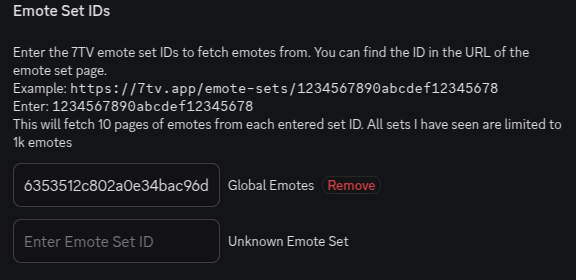
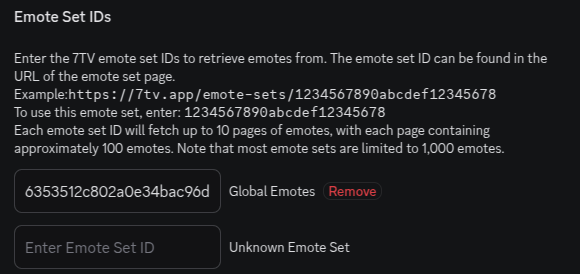
release

diff --git a/index.tsx b/index.tsx
@@ -64,29 +64,26 @@ const settings = definePluginSettings({
     useGlobalEmotes: {
         type: OptionType.BOOLEAN,
         description:
-            "Use the global 7TV emotes." +
-            " If disabled, only emotes from the manually entered emote set id will be used.",
+            "Enable the use of global 7TV emotes. If disabled, only emotes from the manually specified emote set IDs will be available.",
         default: true,
         restartNeeded: true,
     },
     showNotifications: {
         type: OptionType.BOOLEAN,
-        description: "Show notifications when fetching emotes.",
+        description: "Display notifications during the emote fetching process. Useful for debugging or monitoring plugin activity.",
         default: false,
         restartNeeded: false,
     },
     emotePages: {
         type: OptionType.NUMBER,
         description:
-            "Number of pages to fetch from the 7TV API. " +
-            "Each page contains 100 emotes, so increasing this will increase how long all emotes are loaded " +
-            "This only applies when using global emotes.",
+            "Specify the number of pages to fetch from the 7TV API. Each page contains up to 100 emotes. Increasing this value may extend the loading time. This setting is applicable only when global emotes are enabled.",
         default: 50,
         restartNeeded: true,
     },
     emoteScale: {
         type: OptionType.SELECT,
-        description: "Scale of the emote image in messages.", // I have no idea if this has any effect when the image is turned into emoji. but will use the corresponding image scale for it.
+        description: "Define the scale of emote images displayed in messages. Choose from 1x, 2x, 3x, or 4x for optimal visual quality.",
         options: [
             { label: "1x", value: "1x", default: true },
             { label: "2x", value: "2x" },
@@ -109,11 +106,12 @@ const settings = definePluginSettings({
                 </>
             );
         },
+        description: "Enter custom 7TV emote set IDs to fetch emotes from. This allows the use of specific community or personal emote sets.",
         restartNeeded: true,
     },
 });
 
-async function fetchEmoteSetNames(setID: string): Promise<string | void> {
+async function fetchEmoteSetName(setID: string): Promise<string | void> {
     try {
         const response = await fetch(SEVENTV_API_URL, {
             method: "POST",
@@ -175,7 +173,7 @@ async function fetchEmotesBySetID(setID: string) {
                 showNotification(
                     {
                         title: "Fetching 7TV Emotes...",
-                        body: `Fetched ${emotes.length} emotes from set ${await fetchEmoteSetNames(setID)
+                        body: `Fetched ${emotes.length} emotes from set ${await fetchEmoteSetName(setID)
                             .then(name => name || `Emote Set ${setID}`)
                             .catch(() => `Emote Set ${setID}`)
                             }, page ${page}. Total Emotes Fetched: ${Object.keys((window as any).__7tv_emoteMap).length}`,
@@ -269,7 +267,7 @@ function Input({
 
     useEffect(() => {
         const fetchName = async () => {
-            const name = await fetchEmoteSetNames(value);
+            const name = await fetchEmoteSetName(value);
             if (!name) {
                 setSetName("Unknown Emote Set");
                 return;
@@ -329,15 +327,14 @@ function EmoteIDInput({
         <>
             <Forms.FormTitle tag="h3">{title}</Forms.FormTitle>
             <Forms.FormText>
-                Enter the 7TV emote set IDs to fetch emotes from. You can find the ID in
-                the URL of the emote set page.
+                Enter the 7TV emote set IDs to retrieve emotes from. The emote set ID can be found in the URL of the emote set page.
                 <br />
-                Example:{" "}
+                Example:
                 <code>https://7tv.app/emote-sets/1234567890abcdef12345678</code>
                 <br />
-                Enter: <code>1234567890abcdef12345678</code>
+                To use this emote set, enter: <code>1234567890abcdef12345678</code>
                 <br />
-                This will fetch 10 pages of emotes from each entered set ID. All sets I have seen are limited to 1k emotes
+                Each emote set ID will fetch up to 10 pages of emotes, with each page containing approximately 100 emotes. Note that most emote sets are limited to 1,000 emotes.
             </Forms.FormText>
             {emoteSetIDs.map((id, index) => (
                 <div

diff --git a/README.md b/README.md
@@ -1,56 +1,53 @@
 # Vencord-7TVEmotes
 
-Adds 7TV emotes to discord messages.
-Replaces text with corresponding 7TV Emotes.
+The **Vencord-7TVEmotes** plugin enhances Discord messages by replacing text with corresponding 7TV emotes.
 
 # Demo
 
 ![Demo GIF](https://github.com/AriaGomes/Vencord-7TVEmotes/blob/main/README%20Assests/demo.gif?raw=true)
 
-# How to use
+# How to Use
 
-Install the plugin by building vencord source code with the instructions [here](https://docs.vencord.dev/installing/custom-plugins/)
+To install the plugin, build the Vencord source code by following the instructions [here](https://docs.vencord.dev/installing/custom-plugins/). Once Vencord is configured to use the built files, restart Discord. The plugin will appear as "7TV Emotes" in the plugin list. Enable the plugin to start using emotes.
 
-Once vencord has been built with the custom userplugin and set vencord to use those built files and restart you will see a new plugin called "7TV Emotes" enable the plugin and start using emotes.
+![Plugins Screenshot](https://github.com/AriaGomes/Vencord-7TVEmotes/blob/main/README%20Assests/plugins.png?raw=true)
 
-![plugins photo](https://github.com/AriaGomes/Vencord-7TVEmotes/blob/main/README%20Assests/plugins.png?raw=true)
-
-Type a popular-ish emote and have fun. You may need to adjust some settings to configure this to your liking. See settings below
+Type a popular emote or configure the plugin settings to suit your preferences. See the settings section below for more details.
 
 # Settings
 
-![settings photo](https://github.com/AriaGomes/Vencord-7TVEmotes/blob/main/README%20Assests/settings.png?raw=true)
+![Settings Screenshot](https://github.com/AriaGomes/Vencord-7TVEmotes/blob/main/README%20Assests/settings.png?raw=true)
 
 ### Global Emotes
 
-Default - Enabled
+**Default:** Enabled
 
-Fetches the [most popular 7TV emotes](https://7tv.app/emotes). If no setIDs set and this is disabled you will have no emotes. This settings is also affected by the amount of Emote Pages set.
+Fetches the [most popular 7TV emotes](https://7tv.app/emotes). If no emote set IDs are provided and this option is disabled, no emotes will be available. This setting is influenced by the number of emote pages configured.
 
 ### Emote Scale
 
-Default - 1x
+**Default:** 1x
 
-Selects the scale of the emote that will be fetched from 7TV CDN. 1x is more than enough for regular use.
+Specifies the scale of the emote images fetched from the 7TV CDN. The default scale (1x) is recommended for regular use.
 
 ### Emote Pages
 
-Default - 50
+**Default:** 50
 
-Fetches this amount of emote pages from the global most popular set. Each page contains around 100 emotes. Increasing this will increase the time it takes to fetch all emotes. This setting requres that Global Emotes is enabled or this will have no effect
+Defines the number of pages to fetch from the global most popular emote set. Each page contains approximately 100 emotes. Increasing this value will extend the time required to fetch all emotes. This setting requires Global Emotes to be enabled; otherwise, it will have no effect.
 
 ### Show Notifications
 
-Default - Disabled
+**Default:** Disabled
 
-Shows the user the status of emote fetching. This is more for debugging and really annoying on every startup so disabled by default
+Displays notifications about the status of emote fetching. This feature is primarily intended for debugging purposes and is disabled by default to avoid excessive notifications during startup.
 
-![Notifications GIF](https://github.com/AriaGomes/Vencord-7TVEmotes/blob/main/README%20Assests/notifications.gif?raw=true)
+![Notifications Screenshot](https://github.com/AriaGomes/Vencord-7TVEmotes/blob/main/README%20Assests/notifications.gif?raw=true)
 
 ### Emote Set IDs
 
-Default - Empty
+**Default:** Empty
 
-Enter emote set IDs that will be fetched first before the global emotes. You can use this to use your favourite emotes by entering your favourite community set emotes or make your own and use that set here. You can disable global emotes and only use emote set IDs as well. You can enter as many emote set IDs as you would like but will increase the time it takes to fetch them. Each emote set ID will grab 10 pages as all the sets I have seen have a limit of 1k emotes. Each page has around 100 emotes
+Allows users to specify custom emote set IDs to fetch emotes from. This feature enables the use of favorite community emotes or personal emote sets. If Global Emotes is disabled, only the specified emote set IDs will be used. Multiple emote set IDs can be entered, but fetching them may take additional time. Each emote set ID fetches up to 10 pages, with each page containing approximately 100 emotes.
 
-![EmoteIDs photo](https://github.com/AriaGomes/Vencord-7TVEmotes/blob/main/README%20Assests/emoteIDs.png?raw=true)
+![Emote Set IDs Screenshot](https://github.com/AriaGomes/Vencord-7TVEmotes/blob/main/README%20Assests/emoteIDs.png?raw=true)
